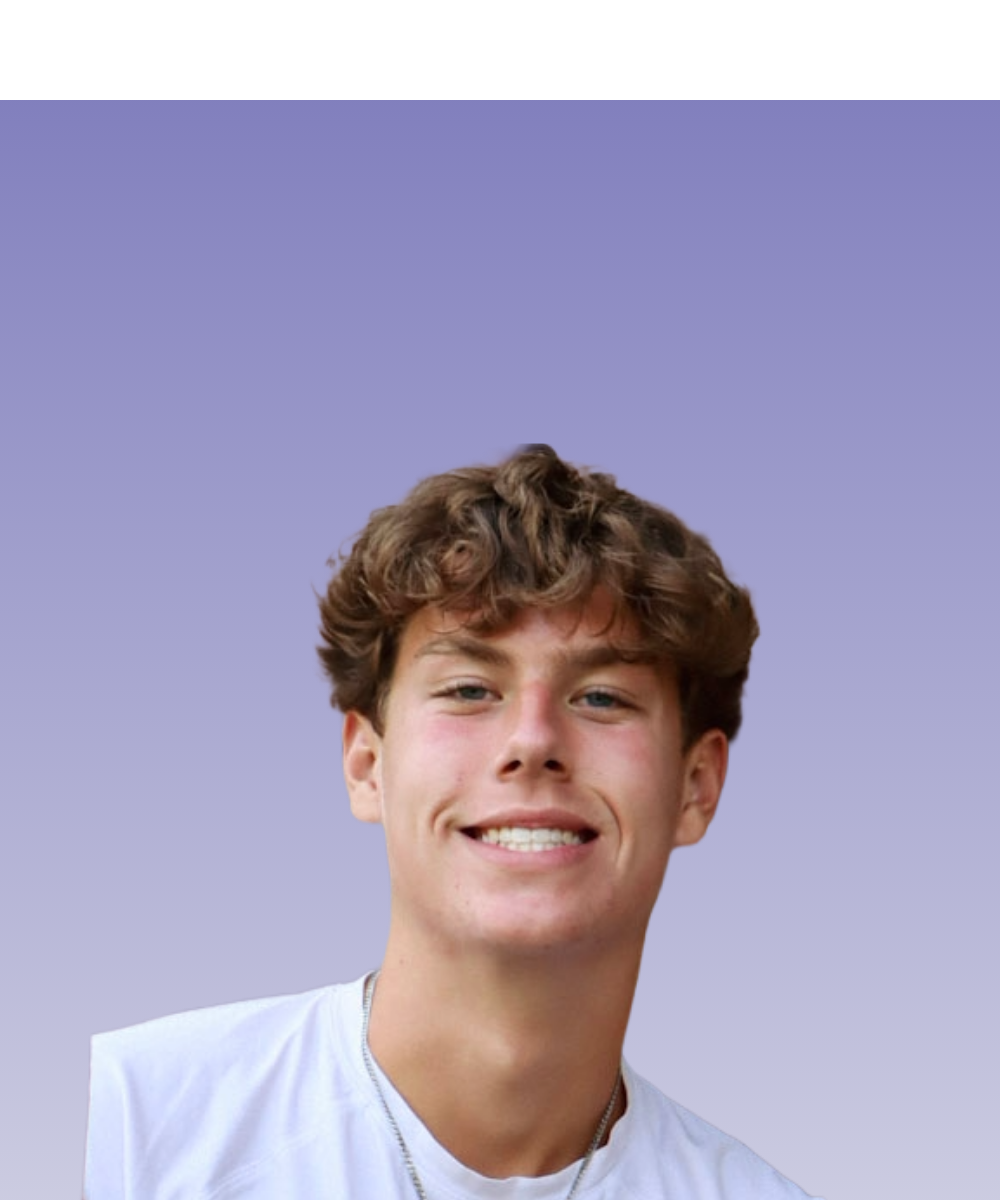
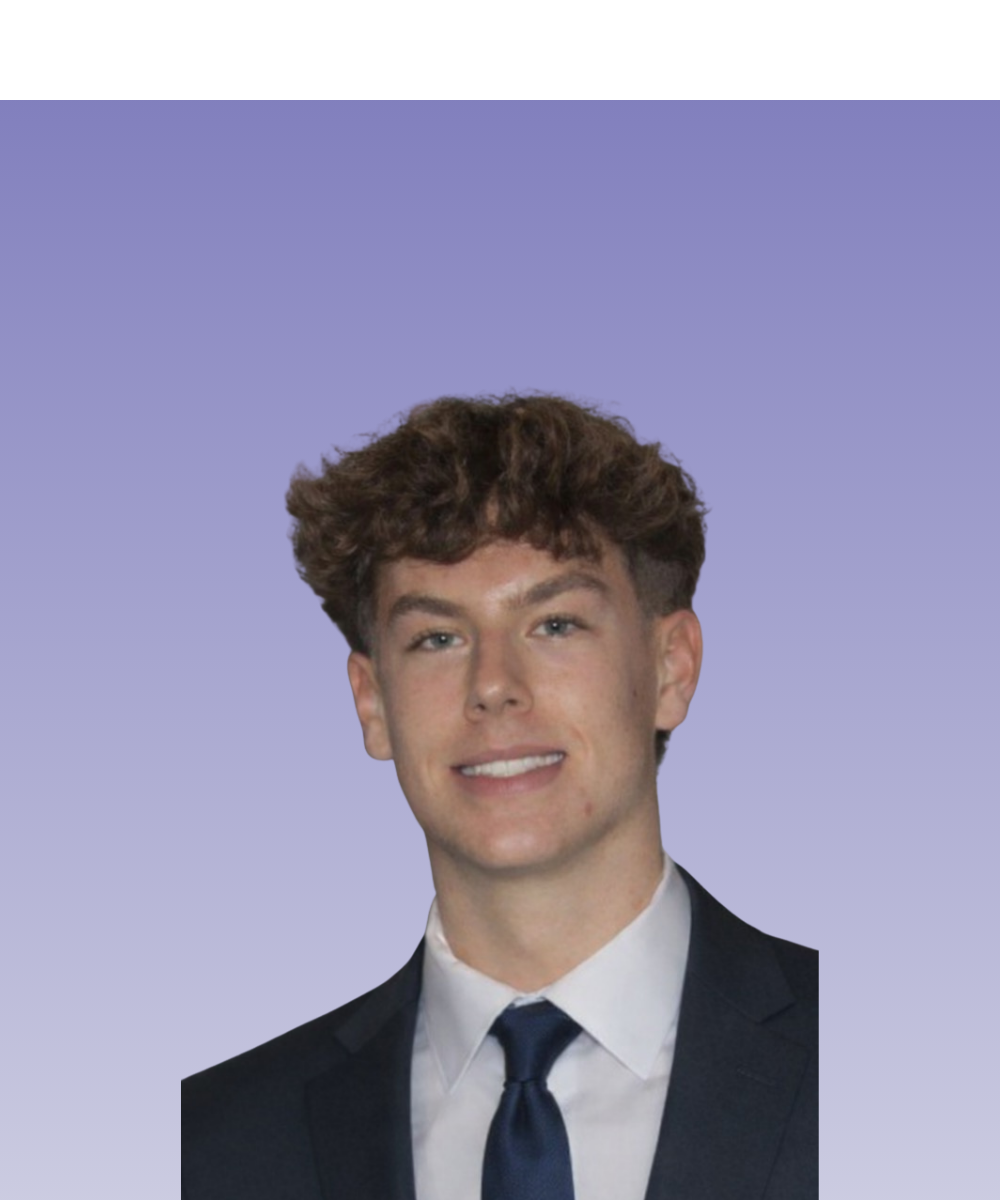
updated for F26 roster

Changed region(s): [[0.062, 0.3083, 0.837, 1.0]]

diff --git a/src/Components/Team/RosterSection.js b/src/Components/Team/RosterSection.js
@@ -151,6 +151,8 @@ import solomondeyoung0 from "../../Images/Team/headshots/solomondeyoung0.png";
 import solomondeyoung1 from "../../Images/Team/headshots/solomondeyoung1.png";
 import timothywang0 from "../../Images/Team/headshots/timothywang0.png";
 import timothywang1 from "../../Images/Team/headshots/timothywang1.png";
+
+/* Winter 2026 */
 import anvipalli0 from "../../Images/Team/headshots/anvipalli0.png";
 import anvipalli1 from "../../Images/Team/headshots/anvipalli1.png";
 import ashishrajam0 from "../../Images/Team/headshots/ashishrajam0.png";
@@ -173,6 +175,32 @@ import robertanderson0 from "../../Images/Team/headshots/robertanderson0.png";
 import robertanderson1 from "../../Images/Team/headshots/robertanderson1.png";
 import tydellay0 from "../../Images/Team/headshots/tydellay0.png";
 import tydellay1 from "../../Images/Team/headshots/tydellay1.png";
+
+/* Fall 2026 */
+import baileyduncan0 from "../../Images/Team/headshots/baileyduncan0.png";
+import baileyduncan1 from "../../Images/Team/headshots/baileyduncan1.png";
+import shriyachahal0 from "../../Images/Team/headshots/shriyachahal0.png";
+import shriyachahal1 from "../../Images/Team/headshots/shriyachahal1.png";
+import sophialiu0 from "../../Images/Team/headshots/sophialiu0.png";
+import sophialiu1 from "../../Images/Team/headshots/sophialiu1.png";
+import renanbriones0 from "../../Images/Team/headshots/renanbriones0.png";
+import renanbriones1 from "../../Images/Team/headshots/renanbriones1.png";
+import aanyadogra0 from "../../Images/Team/headshots/aanyadogra0.png";
+import aanyadogra1 from "../../Images/Team/headshots/aanyadogra1.png";
+import bellacoughlin0 from "../../Images/Team/headshots/bellacoughlin0.png";
+import bellacoughlin1 from "../../Images/Team/headshots/bellacoughlin1.png";
+import samzhang0 from "../../Images/Team/headshots/samzhang0.png";
+import samzhang1 from "../../Images/Team/headshots/samzhang1.png";
+import arsalanalavi0 from "../../Images/Team/headshots/arsalanalavi0.png";
+import arsalanalavi1 from "../../Images/Team/headshots/arsalanalavi1.png";
+import eshanmahuli0 from "../../Images/Team/headshots/eshanmahuli0.png";
+import eshanmahuli1 from "../../Images/Team/headshots/eshanmahuli1.png";
+import ryanwadhwa0 from "../../Images/Team/headshots/ryanwadhwa0.png";
+import ryanwadhwa1 from "../../Images/Team/headshots/ryanwadhwa1.png";
+import benklingbeil0 from "../../Images/Team/headshots/benklingbeil0.png";
+import benklingbeil1 from "../../Images/Team/headshots/benklingbeil1.png";
+import divyamdave0 from "../../Images/Team/headshots/divyamdave0.png";
+import divyamdave1 from "../../Images/Team/headshots/divyamdave1.png";
 
 const SectionContainer = styled.div`
 	width: 100vw;
@@ -394,31 +422,40 @@ function RosterSection() {
 			url: "https://www.linkedin.com/in/akash-saini-4a7176318/",
 		},
 		{
-			name: "Chloe Tjakra",
-			image0: chloetjakra0,
-			image1: chloetjakra1,
+			name: "Anvi Palli",
+			image0: anvipalli0,
+			image1: anvipalli1,
 			position: "Project Manager",
-			major: "Data Science 2028",
-			ID: 140,
-			url: "https://www.linkedin.com/in/chloe-tjakra-ba566a336/",
+			major: "BBA 2029",
+			ID: 184,
+			url: "https://www.linkedin.com/in/anvi-palli/",
 		},
 		{
-			name: "Natasha Shimon",
-			image0: natashashimon0,
-			image1: natashashimon1,
+			name: "Auburn Schnelker",
+			image0: auburnschnelker0,
+			image1: auburnschnelker1,
 			position: "Project Manager",
-			major: "Data Science 2027",
-			ID: 126,
-			url: "https://www.linkedin.com/in/natasha-shimon-10676b249/",
+			major: "BBA 2029",
+			ID: 177,
+			url: "https://www.linkedin.com/in/auburn-schnelker-630635352/",
 		},
 		{
-			name: "Simran Kaur",
-			image0: simrankaur0,
-			image1: simrankaur1,
+			name: "Bettina Soares",
+			image0: bettinasoares0,
+			image1: bettinasoares1,
 			position: "Project Manager",
-			major: "Econ 2028",
-			ID: 166,
-			url: "https://www.linkedin.com/in/-simrankaur-/",
+			major: "BBA 2029",
+			ID: 170,
+			url: "https://www.linkedin.com/in/bettina-soares/",
+		},
+		{
+			name: "Solomon DeYoung",
+			image0: solomondeyoung0,
+			image1: solomondeyoung1,
+			position: "Project Manager",
+			major: "BBA 2029",
+			ID: 161,
+			url: "https://www.linkedin.com/in/solomon-deyoung/",
 		},
 		{
 			name: "Timothy Wang",
@@ -432,31 +469,83 @@ function RosterSection() {
 
 	];
 
-	{/*
-	const freshmanData = [
-
-
+	
+	const freshmanData = 
+	[
+		{
+			name: "Aanya Dogra",
+			image0: aanyadogra0,
+			image1: aanyadogra1,
+			position: "Analyst",
+			major: "BBA 2030",
+			ID: 189,
+			url: "https://www.linkedin.com/in/aanya-dogra/",
+		},
+		{
+			name: "Divyam Dave",
+			image0: divyamdave0,
+			image1: divyamdave1,
+			position: "Analyst",
+			major: "Econ 2030",
+			ID: 196,
+			url: "https://www.linkedin.com/in/aanya-dogra/",
+		},
+		{
+			name: "Isabella Coughlin",
+			image0: bellacoughlin0,
+			image1: bellacoughlin1,
+			position: "Analyst",
+			major: "BBA 2030",
+			ID: 190,
+			url: "https://www.linkedin.com/in/isabella-coughlin/",
+		},
+		{
+			name: "Renan Briones Pinto",
+			image0: renanbriones0,
+			image1: renanbriones1,
+			position: "Analyst",
+			major: "BBA 2030",
+			ID: 188,
+			url: "https://www.linkedin.com/in/renan-briones-pinto/",
+		},
+		{
+			name: "Ryan Wadhwa",
+			image0: ryanwadhwa0,
+			image1: ryanwadhwa1,
+			position: "Analyst",
+			major: "IOE 2030",
+			ID: 194,
+			url: "https://www.linkedin.com/in/ryan-wadhwa-1b335b306/",
+		},
+		{
+			name: "Sam Zhang",
+			image0: samzhang0,
+			image1: samzhang1,
+			position: "Analyst",
+			major: "BBA 2030",
+			ID: 191,
+			url: "https://www.linkedin.com/in/sam-c-zhang/",
+		},
+		{
+			name: "Sophia Liu",
+			image0: sophialiu0,
+			image1: sophialiu1,
+			position: "Analyst",
+			major: "BBA 2030",
+			ID: 187,
+			url: "https://www.linkedin.com/in/sophliu-/",
+		},
 	];
-*/}
 
 	const sophomoreData = [
 		{
-			name: "Anvi Palli",
-			image0: anvipalli0,
-			image1: anvipalli1,
+			name: "Arsalan Alavi",
+			image0: arsalanalavi0,
+			image1: arsalanalavi1,
 			position: "Analyst",
-			major: "BBA 2029",
-			ID: 184,
-			url: "https://www.linkedin.com/in/anvi-palli/",
-		},
-		{
-			name: "Auburn Schnelker",
-			image0: auburnschnelker0,
-			image1: auburnschnelker1,
-			position: "Analyst",
-			major: "BBA 2029",
-			ID: 177,
-			url: "https://www.linkedin.com/in/auburn-schnelker-630635352/",
+			major: "Econ 2029",
+			ID: 192,
+			url: "https://www.linkedin.com/in/arsalan-alavi-425075329/",
 		},
 		{
 			name: "Ava Chase",
@@ -468,13 +557,22 @@ function RosterSection() {
 			url: "https://www.linkedin.com/in/ava-chase-7648a4311/",
 		},
 		{
-			name: "Bettina Soares",
-			image0: bettinasoares0,
-			image1: bettinasoares1,
+			name: "Bailey Duncan",
+			image0: baileyduncan0,
+			image1: baileyduncan1,
 			position: "Analyst",
-			major: "BBA 2029",
-			ID: 170,
-			url: "https://www.linkedin.com/in/bettina-soares/",
+			major: "Econ 2029",
+			ID: 185,
+			url: "https://www.linkedin.com/in/bailey-duncan-4a6470335/",
+		},
+		{
+			name: "Ben Klingbeil",
+			image0: benklingbeil0,
+			image1: benklingbeil1,
+			position: "Analyst",
+			major: "BBA & Spanish 2029",
+			ID: 195,
+			url: "https://www.linkedin.com/in/ben-klingbeil1/",
 		},
 		{
 			name: "Chris Bai",
@@ -502,6 +600,15 @@ function RosterSection() {
 			major: "Econ 2029",
 			ID: 178,
 			url: "https://www.linkedin.com/in/echo-li2029/",
+		},
+		{
+			name: "Eshan Mahuli",
+			image0: eshanmahuli0,
+			image1: eshanmahuli1,
+			position: "Analyst",
+			major: "IOE 2029",
+			ID: 193,
+			url: "https://www.linkedin.com/in/emahuli/",
 		},
 		{
 			name: "Gemma Gow",
@@ -576,13 +683,13 @@ function RosterSection() {
 			url: "https://www.linkedin.com/in/robertanderson20/",
 		},
 		{
-			name: "Solomon DeYoung",
-			image0: solomondeyoung0,
-			image1: solomondeyoung1,
+			name: "Shriya Chahal",
+			image0: shriyachahal0,
+			image1: shriyachahal1,
 			position: "Analyst",
-			major: "BBA 2029",
-			ID: 161,
-			url: "https://www.linkedin.com/in/solomon-deyoung/",
+			major: "IOE 2029",
+			ID: 186,
+			url: "https://www.linkedin.com/in/shriyachahal/",
 		},
 		{
 			name: "Ty Dellay",
@@ -631,6 +738,15 @@ function RosterSection() {
 			major: "BBA 2028",
 			ID: 152,
 			url: "https://www.linkedin.com/in/sangyeon-kang/",
+		},
+		{
+			name: "Chloe Tjakra",
+			image0: chloetjakra0,
+			image1: chloetjakra1,
+			position: "Member",
+			major: "Data Science 2028",
+			ID: 140,
+			url: "https://www.linkedin.com/in/chloe-tjakra-ba566a336/",
 		},
 		{
 			name: "Dylan Chee",
@@ -712,6 +828,15 @@ function RosterSection() {
 			major: "BBA 2028",
 			ID: 171,
 			url: "https://www.linkedin.com/in/rithvik-tripuraneni/",
+		},
+		{
+			name: "Simran Kaur",
+			image0: simrankaur0,
+			image1: simrankaur1,
+			position: "Member",
+			major: "Econ 2028",
+			ID: 166,
+			url: "https://www.linkedin.com/in/-simrankaur-/",
 		},
 		{
 			name: "Simryn Jawanda",
@@ -850,6 +975,15 @@ function RosterSection() {
 			major: "CS & Public Policy 2027",
 			ID: 123,
 			url: "https://www.linkedin.com/in/joyxren/",
+		},
+		{
+			name: "Natasha Shimon",
+			image0: natashashimon0,
+			image1: natashashimon1,
+			position: "Member",
+			major: "Data Science 2027",
+			ID: 126,
+			url: "https://www.linkedin.com/in/natasha-shimon-10676b249/",
 		},
 		{
 			name: "Rafael Opperman",
@@ -1008,7 +1142,7 @@ function RosterSection() {
 
 			</PositionContainer>
 
-			{/*
+			{
 			<PositionContainer>
 				<SmallSpacer />
 				<TextContainer>
@@ -1058,7 +1192,7 @@ function RosterSection() {
 					</a>
 				))}
 			</PositionContainer>
-*/}
+}
 			<PositionContainer>
 				<SmallSpacer />
 				<TextContainer>
